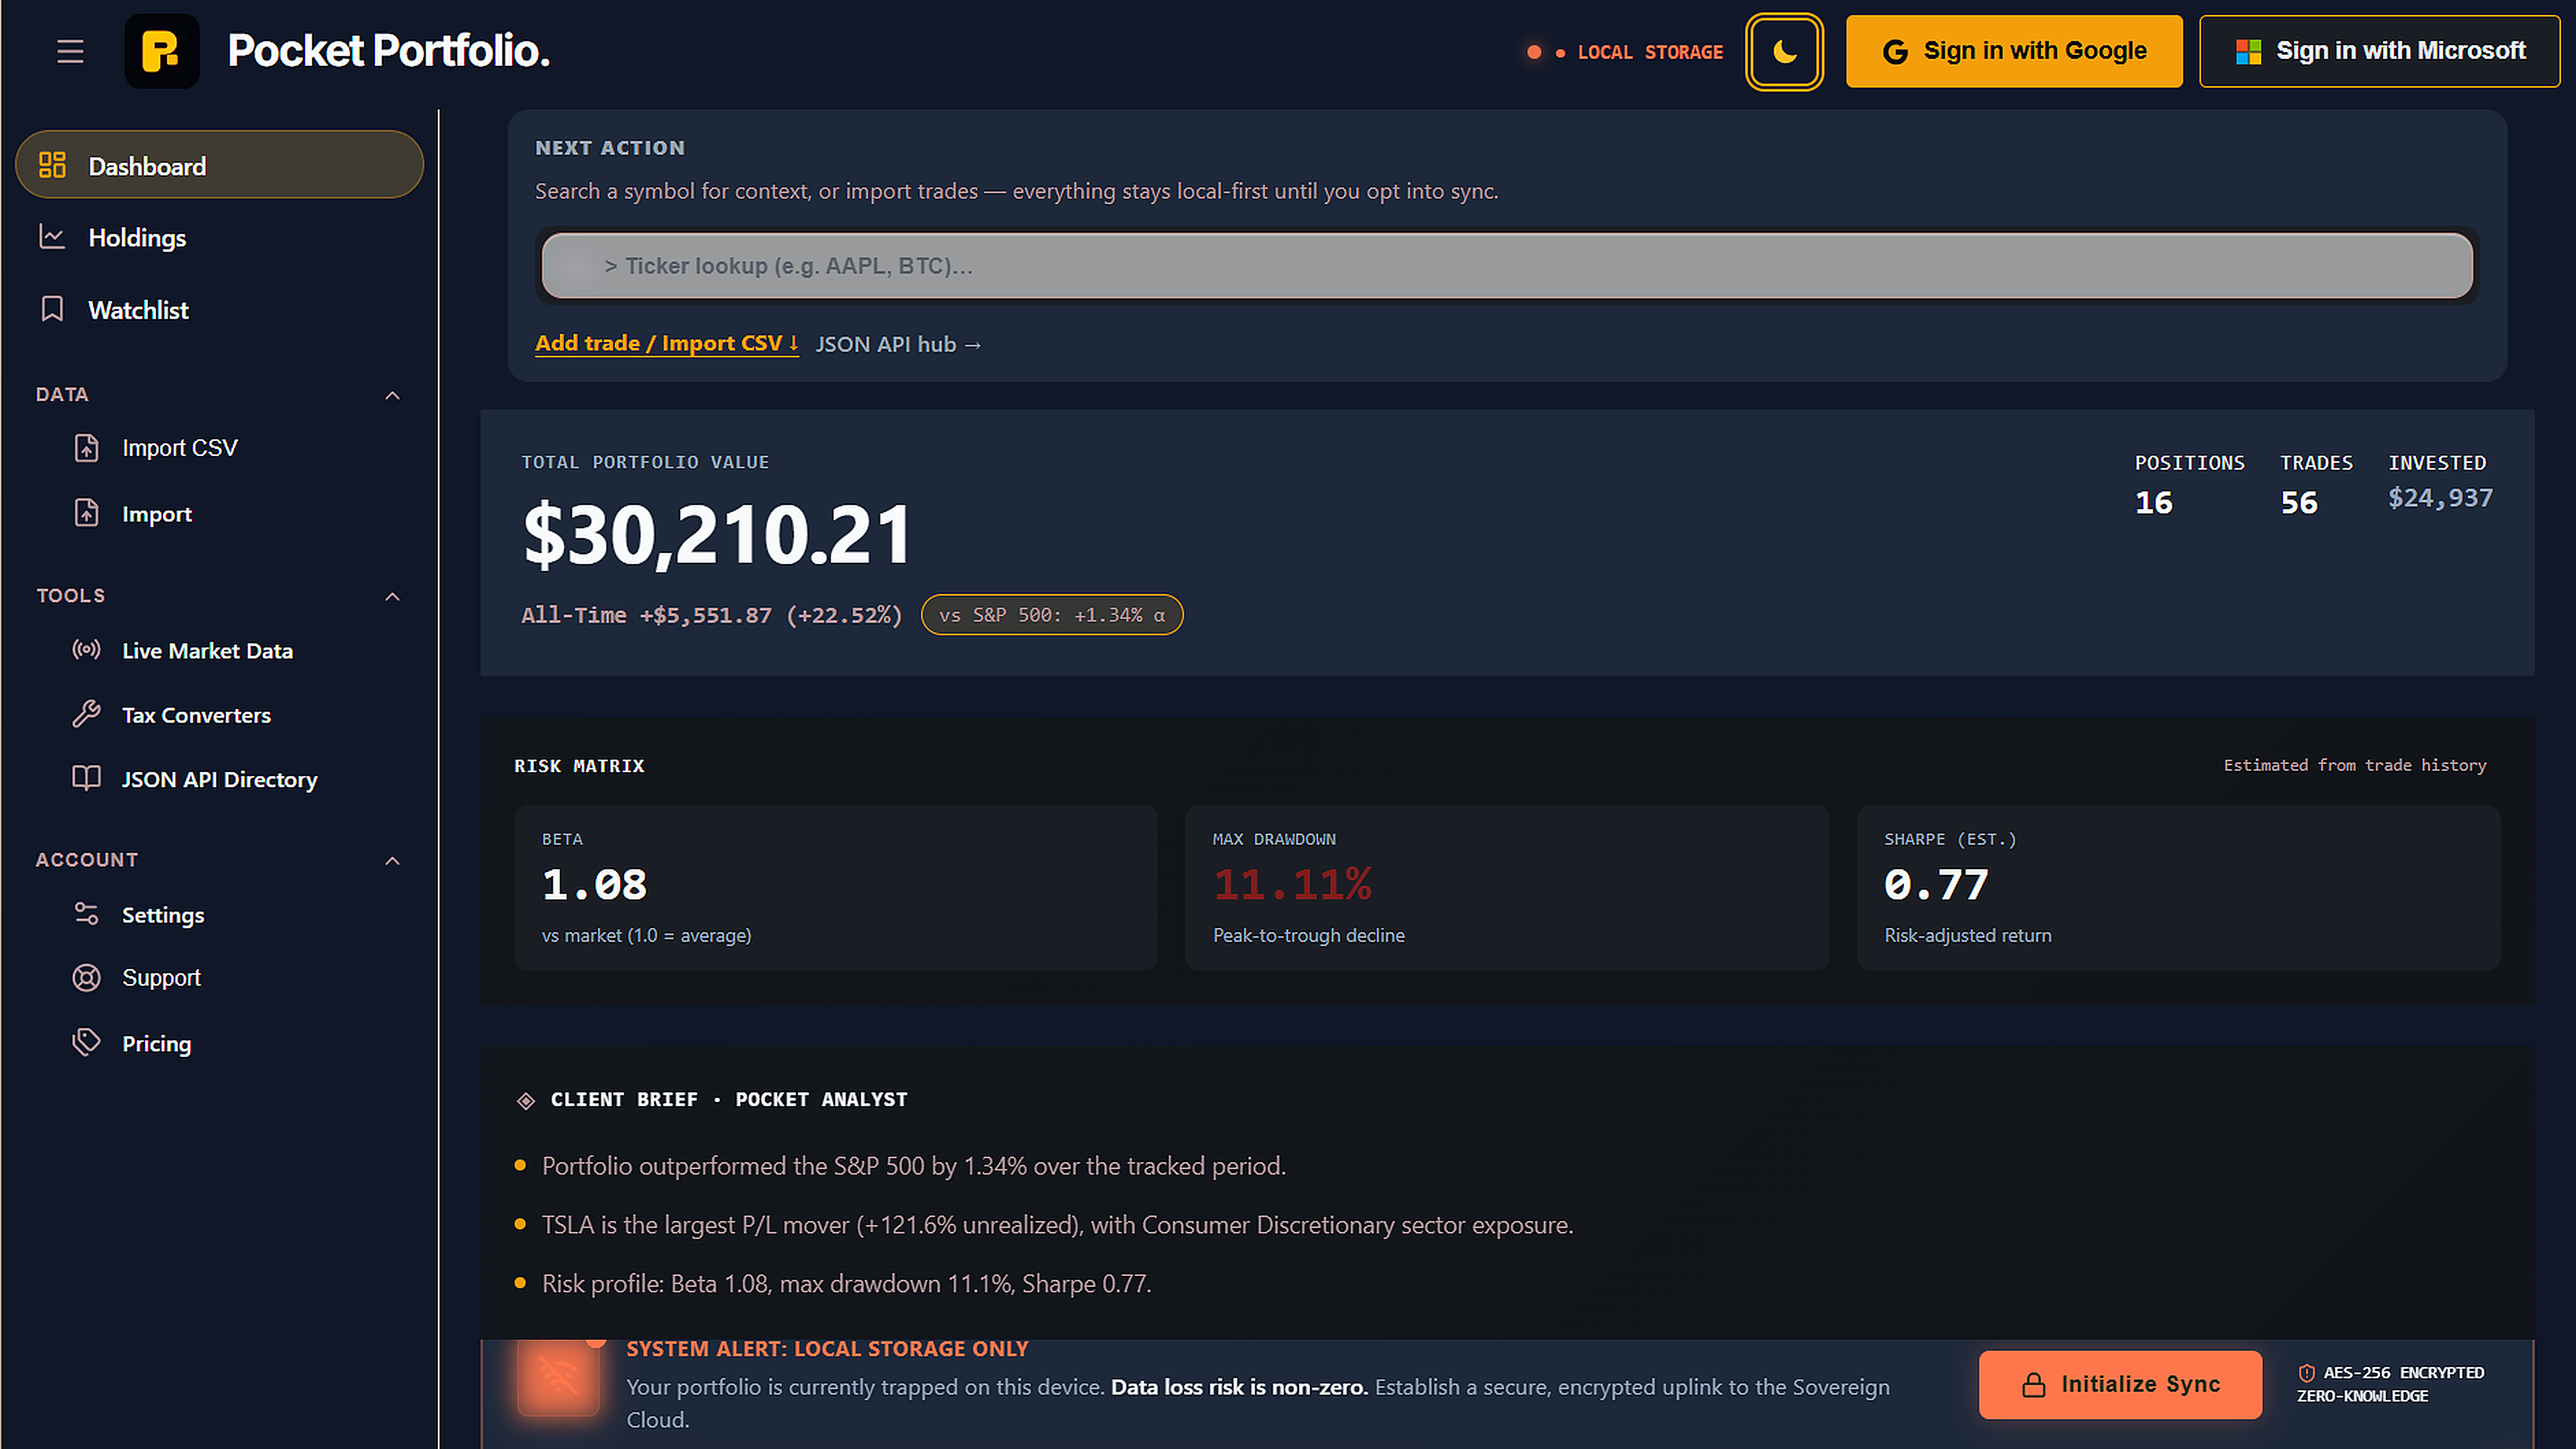
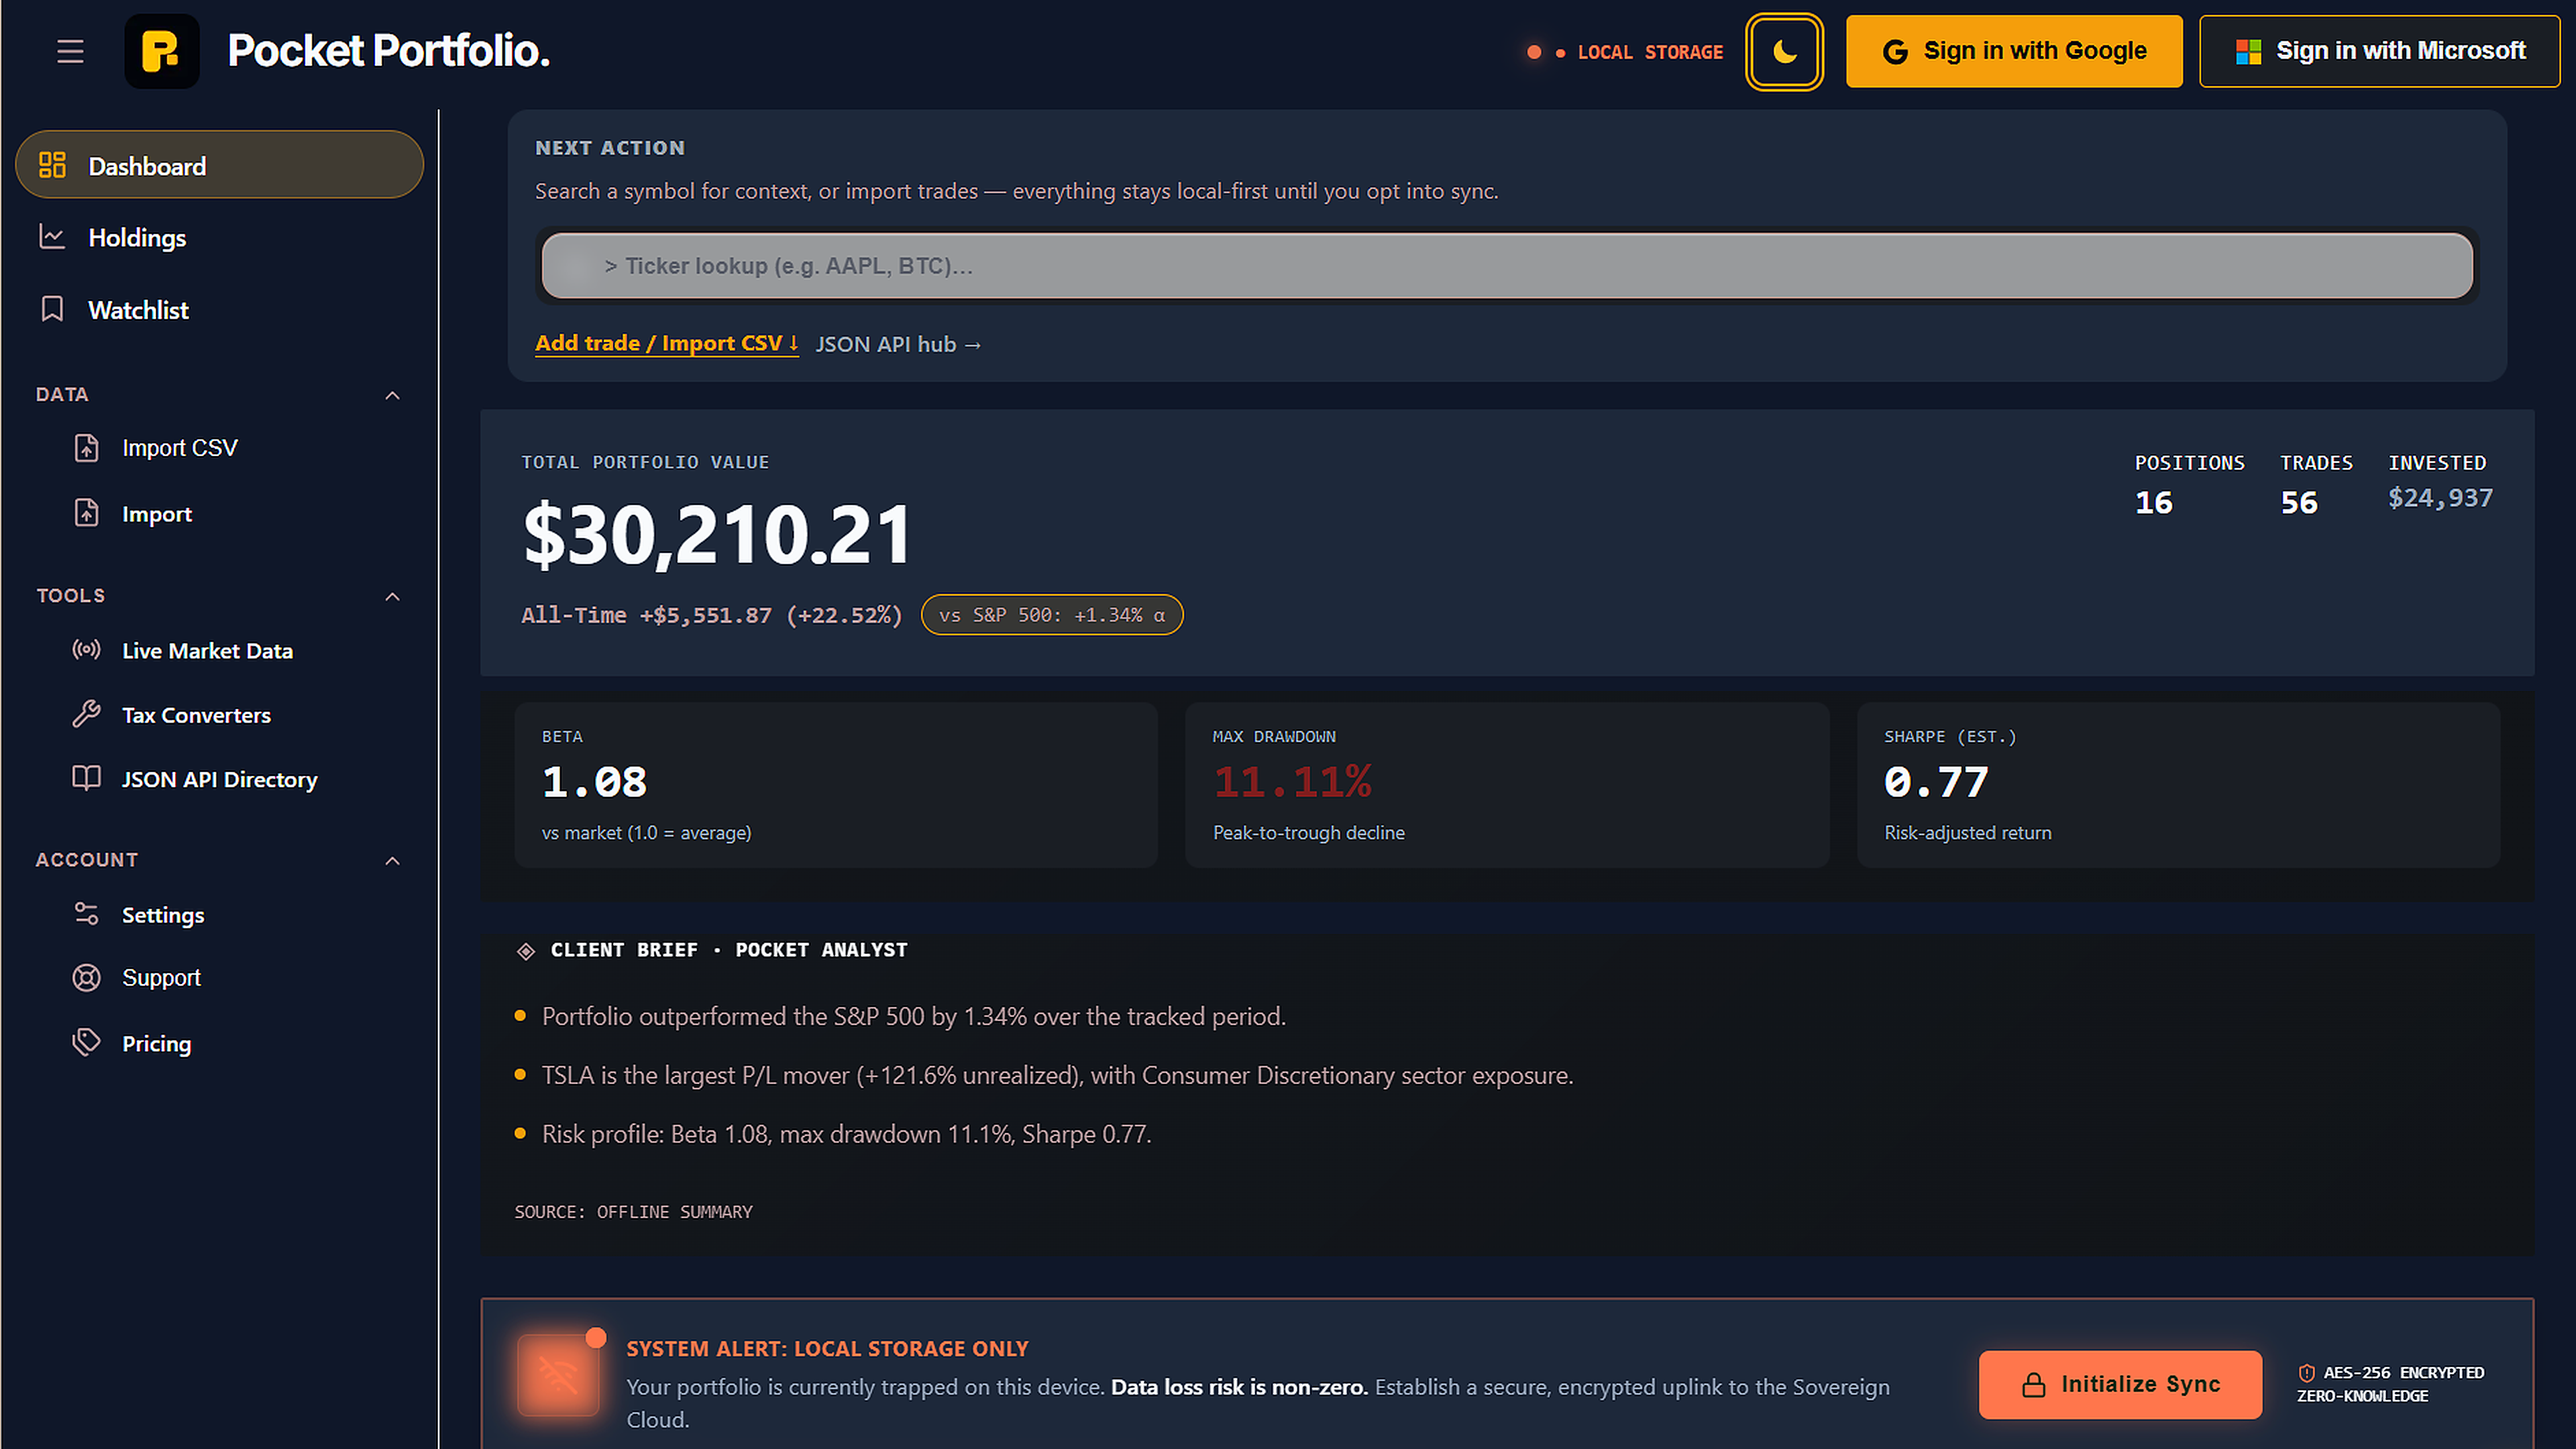
Ship retail terminal optical FINAL v7.3 for prod.
Column-aware composite keeps full sidebar nav and a clean sync-alert seam; cache bust 15031ee72ca9.

diff --git a/lib/pocket-landing-plate-cache.ts b/lib/pocket-landing-plate-cache.ts
@@ -4,7 +4,7 @@
  */
 
 export const POCKET_LANDING_PLATE_CACHE: Record<string, string> = {
-  'web-portal-terminal.png': 'f5f9a2628146',
+  'web-portal-terminal.png': '15031ee72ca9',
   'web-portal-storage.png': '0b443fdf4a64',
   'web-portal-founders.png': '5946e7bf1683',
   'web-why-choose.png': '2d30293746b3',

diff --git a/scripts/bake-terminal-final-plate.py b/scripts/bake-terminal-final-plate.py
@@ -1,9 +1,9 @@
 #!/usr/bin/env python3
 """
-FINAL retail terminal plate v7 — Creative Studios optical 16:9:
-- Exact $30k UI (header + sidebar + SYSTEM ALERT + Initialize Sync)
+FINAL retail terminal plate v7.3 — Creative Studios optical 16:9:
+- Exact $30k UI (header + full sidebar nav + SYSTEM ALERT + Initialize Sync)
 - True 3840×2160, uniform scale only (no anamorphic stretch, no letterbox)
-- Band composite: keep header + alert, drop ~100px of mid gap between brief and alert
+- Column-aware: gutter skips apply to MAIN only — sidebar keeps full menu
 """
 from __future__ import annotations
 
@@ -31,8 +31,75 @@ OUT_W, OUT_H = 3840, 2160
 
 # Source landmarks (1882×1255 full chrome $30k)
 HEADER_END_SRC = 70  # below top nav
-ALERT_START_SRC = 1088  # SYSTEM ALERT banner
+SIDEBAR_END_SRC = 321  # inclusive hairline at x=320
+ALERT_START_SRC = 1084  # SYSTEM ALERT chrome
 ALERT_END_SRC = 1168  # below alert, before FAB/footer clutter
+# Preferred dark gutters to delete (src Y) — MAIN column only
+GUTTER_SKIPS_SRC: list[tuple[int, int]] = [
+    (505, 580),  # between portfolio block and risk matrix
+    (745, 804),  # between risk matrix and client brief
+    (1000, 1084),  # below brief SOURCE line, above alert
+]
+
+
+def _consume_gutters(
+    h_end: int, a0: int, skip_needed: int, scale: float
+) -> list[tuple[int, int]]:
+    """Return scaled keep-segments covering [h_end, a0) with skip_needed rows removed."""
+    if skip_needed <= 0:
+        return [(h_end, a0)]
+
+    # Map preferred gutters into scaled coords, clipped to (h_end, a0)
+    gutters: list[tuple[int, int]] = []
+    for s0, s1 in GUTTER_SKIPS_SRC:
+        g0 = max(h_end, int(round(s0 * scale)))
+        g1 = min(a0, int(round(s1 * scale)))
+        if g1 > g0:
+            gutters.append((g0, g1))
+
+    remove_ranges: list[tuple[int, int]] = []
+    left = skip_needed
+    for g0, g1 in gutters:
+        if left <= 0:
+            break
+        take = min(left, g1 - g0)
+        # Prefer removing from the middle of each gutter
+        mid = (g0 + g1) // 2
+        r0 = max(g0, mid - take // 2)
+        r1 = r0 + take
+        if r1 > g1:
+            r1 = g1
+            r0 = r1 - take
+        remove_ranges.append((r0, r1))
+        left -= take
+
+    if left > 0:
+        # Last resort: trim just above alert (still below brief body)
+        r1 = a0
+        r0 = a0 - left
+        if r0 < h_end:
+            raise SystemExit(f"cannot fit skip={skip_needed} into mid span")
+        remove_ranges.append((r0, r1))
+        left = 0
+
+    remove_ranges.sort()
+    # Merge overlaps
+    merged: list[tuple[int, int]] = []
+    for r0, r1 in remove_ranges:
+        if not merged or r0 > merged[-1][1]:
+            merged.append((r0, r1))
+        else:
+            merged[-1] = (merged[-1][0], max(merged[-1][1], r1))
+
+    keeps: list[tuple[int, int]] = []
+    cursor = h_end
+    for r0, r1 in merged:
+        if cursor < r0:
+            keeps.append((cursor, r0))
+        cursor = max(cursor, r1)
+    if cursor < a0:
+        keeps.append((cursor, a0))
+    return keeps
 
 
 def compose_optical_16x9(src: Path) -> Image.Image:
@@ -45,42 +112,70 @@ def compose_optical_16x9(src: Path) -> Image.Image:
     arr = np.asarray(scaled)
 
     h_end = int(round(HEADER_END_SRC * scale))
+    sb_w = int(round(SIDEBAR_END_SRC * scale))
     a0 = int(round(ALERT_START_SRC * scale))
     a1 = int(round(ALERT_END_SRC * scale))
     alert_h = a1 - a0
-    mid_h = OUT_H - h_end - alert_h
+    body_h = OUT_H - h_end
+    mid_h = body_h - alert_h
     if mid_h < 100:
         raise SystemExit(f"mid band too small: {mid_h}")
 
-    # Mid band: contiguous rows immediately under header, length mid_h
-    # (skips the gap that would otherwise force letterbox/stretch)
-    mid0 = h_end
-    mid1 = mid0 + mid_h
-    if mid1 > a0:
-        # Prefer keeping content just above alert if header+mid overshoots
-        mid1 = a0
-        mid0 = mid1 - mid_h
-        if mid0 < h_end:
-            mid0 = h_end
-            mid1 = mid0 + mid_h
+    # MAIN column: gutter-skip to fit alert without brief overlap
+    avail = a0 - h_end
+    skip_needed = avail - mid_h
+    keeps = _consume_gutters(h_end, a0, skip_needed, scale)
+    main_parts = [arr[u:v, sb_w:] for u, v in keeps if v > u]
+    main_mid = (
+        np.concatenate(main_parts, axis=0) if main_parts else arr[h_end:a0, sb_w:]
+    )
+    if main_mid.shape[0] > mid_h:
+        main_mid = main_mid[:mid_h]
+    elif main_mid.shape[0] < mid_h:
+        raise SystemExit(f"main mid short: {main_mid.shape[0]} < {mid_h}")
+    main_alert = arr[a0:a1, sb_w:]
+    main = np.concatenate([main_mid, main_alert], axis=0)
+    if main.shape[0] != body_h:
+        raise SystemExit(f"main body_h {main.shape[0]} != {body_h}")
+
+    # SIDEBAR: continuous strip — never apply gutter skips (keeps full menu)
+    sb_avail = arr.shape[0] - h_end
+    if sb_avail >= body_h:
+        sidebar = arr[h_end : h_end + body_h, :sb_w]
+    else:
+        pad = body_h - sb_avail
+        fill = np.broadcast_to(arr[-1:, :sb_w], (pad, sb_w, 3)).copy()
+        sidebar = np.concatenate([arr[h_end:, :sb_w], fill], axis=0)
+
+    body = np.concatenate([sidebar, main], axis=1)
+    if body.shape[1] != OUT_W:
+        # rounding drift on sb_w
+        if body.shape[1] > OUT_W:
+            body = body[:, :OUT_W]
+        else:
+            pad_w = OUT_W - body.shape[1]
+            body = np.concatenate(
+                [body, np.broadcast_to(body[:, -1:, :], (body_h, pad_w, 3)).copy()],
+                axis=1,
+            )
 
     header = arr[0:h_end]
-    mid = arr[mid0:mid1]
-    alert = arr[a0:a1]
-
-    if header.shape[0] + mid.shape[0] + alert.shape[0] != OUT_H:
-        # Fix rounding drift
-        need = OUT_H - header.shape[0] - alert.shape[0]
-        if mid.shape[0] > need:
-            mid = mid[:need]
-        elif mid.shape[0] < need:
-            pad = need - mid.shape[0]
-            mid = np.concatenate([mid, arr[mid1 : mid1 + pad]], axis=0)
-
-    out = np.concatenate([header, mid, alert], axis=0)
+    if header.shape[1] != body.shape[1]:
+        header = header[:, : body.shape[1]]
+    out = np.concatenate([header, body], axis=0)
     if out.shape[0] != OUT_H or out.shape[1] != OUT_W:
         raise SystemExit(f"bad compose shape {out.shape}, want {(OUT_H, OUT_W, 3)}")
 
+    print(
+        "compose keeps",
+        [(u, v) for u, v in keeps],
+        "skip",
+        skip_needed,
+        "sb_w",
+        sb_w,
+        "main",
+        main.shape[0],
+    )
     im = Image.fromarray(out, "RGB")
     return im.filter(ImageFilter.UnsharpMask(radius=1.2, percent=120, threshold=2))
 
@@ -173,7 +268,7 @@ def main() -> None:
                     row["src"] = "pocket-portal-terminal-master-final-v6.png"
                     row["hash"] = digest
                     row["label"] = (
-                        "portalTerminal — FINAL v7 · optical 16:9 · header+alert · no stretch"
+                        "portalTerminal — FINAL v7.3 · optical 16:9 · full sidebar · clean alert"
                     )
             man.write_text(json.dumps(data, indent=2), encoding="utf-8")
         except Exception as e:
@@ -187,6 +282,11 @@ def main() -> None:
     final.crop((0, OUT_H - 200, OUT_W, OUT_H)).resize(
         (960, 50), Image.Resampling.LANCZOS
     ).save(SEED / "_qc_v7_bot.png")
+    # Seam: last mid rows + first alert rows
+    seam_y = OUT_H - int(round((ALERT_END_SRC - ALERT_START_SRC) * (OUT_W / 1882)))
+    final.crop((0, max(0, seam_y - 80), OUT_W, min(OUT_H, seam_y + 120))).resize(
+        (960, 60), Image.Resampling.LANCZOS
+    ).save(SEED / "_qc_v71_seam.png")
 
     m = qc_metrics(final)
     print("size", final.size)
